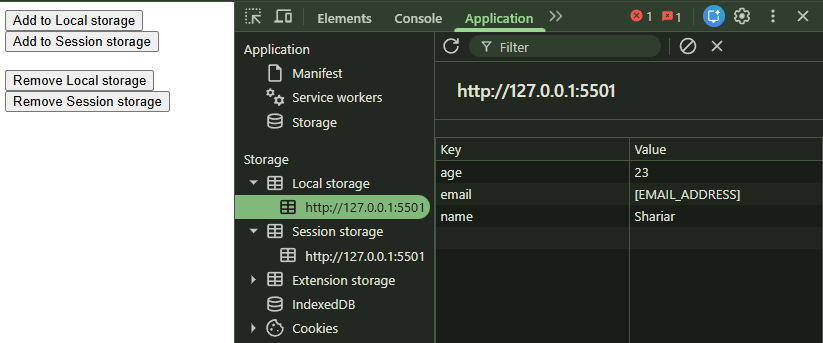
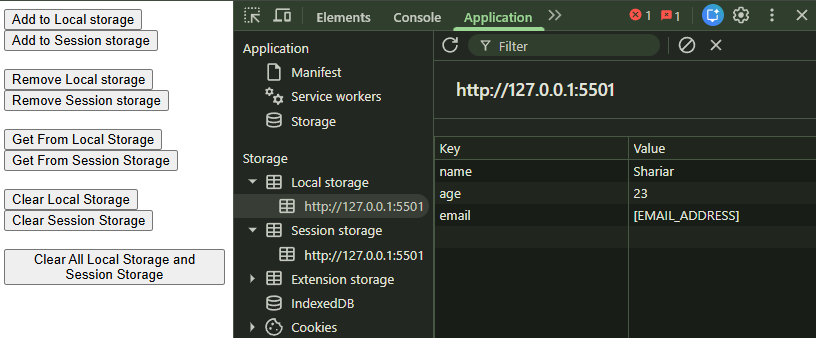
Local Storage and Session Storage in javascript

diff --git a/63-Local Storage and Session Storage in javascript/script.js b/63-Local Storage and Session Storage in javascript/script.js
@@ -10,6 +10,8 @@ const setSessionStorage = () => {
     sessionStorage.setItem("email", "[EMAIL_ADDRESS]");
 }
 
+
+
 const removeLocalStorage = () => {
     localStorage.removeItem("name");
     localStorage.removeItem("age");
@@ -20,4 +22,41 @@ const removeSessionStorage = () => {
     sessionStorage.removeItem("name");
     sessionStorage.removeItem("age");
     sessionStorage.removeItem("email");
+}
+
+
+
+
+const getFromLocalStorage = () => {
+    const name = localStorage.getItem("name");
+    const age = localStorage.getItem("age");
+    const email = localStorage.getItem("email");
+    console.log(name, age, email);
+}
+
+const getFromSessionStorage = () => {
+    const name = sessionStorage.getItem("name");
+    const age = sessionStorage.getItem("age");
+    const email = sessionStorage.getItem("email");
+    console.log(name, age, email);
+}
+
+
+
+
+// For clear local storage and session storage we use localStorage.clear() and sessionStorage.clear()
+
+function clearLocalStorage() {
+    localStorage.clear();
+}
+
+function clearSessionStorage() {
+    sessionStorage.clear();
+}
+
+
+// clear all local storage and session storage we use localStorage.clear() and sessionStorage.clear()
+function clearAllLocalStorageAndSessionStorage() {
+    localStorage.clear();
+    sessionStorage.clear();
 }

diff --git a/63-Local Storage and Session Storage in javascript/index.html b/63-Local Storage and Session Storage in javascript/index.html
@@ -20,6 +20,23 @@
   <button onclick="removeLocalStorage()"> Remove Local storage </button>
   <button onclick="removeSessionStorage()"> Remove Session storage </button>
   
+
+  <br> <br>
+
+  
+  <button onclick="getFromLocalStorage()"> Get From Local Storage </button>
+  <button onclick="getFromSessionStorage()"> Get From Session Storage </button>
+  
+
+  <br> <br>
+
+  
+  <button onclick="clearLocalStorage()"> Clear Local Storage </button>
+  <button onclick="clearSessionStorage()"> Clear Session Storage </button>
+
+  <br> <br>
+  
+  <button onclick="clearAllLocalStorageAndSessionStorage()"> Clear All Local Storage and Session Storage </button>
   
   <script src="script.js"></script>
 </body>
